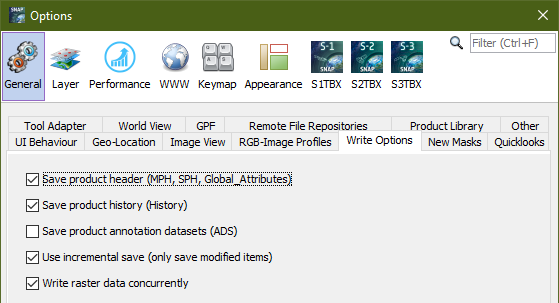
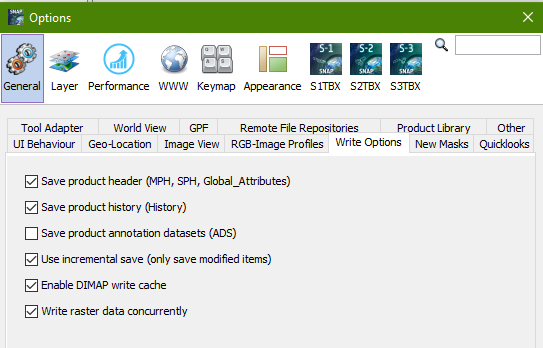
[SNAP-1324] Improve write performance of DIMAP
* final update - corrected offset calculations

* implemented GUI elements for DIMAP cache and updated docs

* update image in help

* Delete snap.conf.bak

* Delete ground_control_points.csv

* Delete pins.csv

* Delete X.dim

* Delete ground_control_points.csv

* Delete pins.csv

* Delete Y.dim

* Delete BandMath-template.vm

* Delete descriptor.xml

* Delete descriptor.xml

* Delete OTB-KMeans-template.vm

* Delete descriptor.xml

* Delete OTB-LocalStatisticsExtraction-template.vm

* Delete descriptor.xml

* Delete OTB-OpticalCalibration-template.vm

* Delete descriptor.xml

* Delete OTB-OrthoRectification-template.vm

* Delete descriptor.xml

* Delete OTB-PanSharpening-template.vm

diff --git a/snap-help/src/main/resources/org/esa/snap/snap/help/docs/desktop/OptionsDialog.html b/snap-help/src/main/resources/org/esa/snap/snap/help/docs/desktop/OptionsDialog.html
@@ -198,6 +198,11 @@ at once.
         applied to a product, such as band modified or created with band maths
         tool or the removal of bands.
     </li>
+    <li><b>Enable DIMAP write cache</b><br>
+        If this option is selected (recommended), all data written to DIMAP file format will be cached before
+        accessing the storage medium. This allows for a disk access schema suited for the dataformat and thus
+        in most cases a higher data throughput.
+    </li>
 </ul>
 <p>The last element generally concerns the writing process and thus also all writeable formats.</p>
 <ul>

diff --git a/snap-rcp/src/main/java/org/esa/snap/rcp/preferences/general/WriteOptionsController.java b/snap-rcp/src/main/java/org/esa/snap/rcp/preferences/general/WriteOptionsController.java
@@ -42,7 +42,7 @@ import java.beans.PropertyChangeListener;
         position = 5)
 @org.openide.util.NbBundle.Messages({
         "Options_DisplayName_WriteOptions=Write Options",
-        "Options_Keywords_WriteOptions=write, writing, save, header, MPH, SPH, history, annotation, incremental"
+        "Options_Keywords_WriteOptions=write, writing, save, header, MPH, SPH, history, annotation, incremental, caching"
 })
 public final class WriteOptionsController extends DefaultConfigController {
 
@@ -64,6 +64,11 @@ public final class WriteOptionsController extends DefaultConfigController {
     public static final String PREFERENCE_KEY_SAVE_INCREMENTAL = "save.incremental";
 
     /**
+     * Preferences key to switch dimap product writer caching
+     */
+    public static final String PREFERENCE_KEY_DIMAP_WRITE_CACHE = "snap.dataio.writer.dimap.useCache";
+
+    /**
      * default value for preference save product headers (MPH, SPH) or not
      */
     public static final boolean DEFAULT_VALUE_SAVE_PRODUCT_HEADERS = true;
@@ -79,6 +84,11 @@ public final class WriteOptionsController extends DefaultConfigController {
      * default value for preference incremental mode at save
      */
     public static final boolean DEFAULT_VALUE_SAVE_INCREMENTAL = true;
+
+    /**
+     * default value for preference for dimap caching
+     */
+    public static final boolean DEFAULT_VALUE_DIMAP_WRITE_CACHE = true;
 
     protected PropertySet createPropertySet() {
         return createPropertySet(new WriteOptionsBean());
@@ -126,6 +136,9 @@ public final class WriteOptionsController extends DefaultConfigController {
 
         @Preference(label = "Use incremental save (only save modified items)", key = PREFERENCE_KEY_SAVE_INCREMENTAL)
         boolean saveIncremental = DEFAULT_VALUE_SAVE_INCREMENTAL;
+
+        @Preference(config = "snap", label = "Enable DIMAP write cache", key = PREFERENCE_KEY_DIMAP_WRITE_CACHE)
+        boolean useDimapCache = DEFAULT_VALUE_DIMAP_WRITE_CACHE;
 
         @Preference(config = "snap", label = "Write raster data concurrently", key = ProductIO.SYSTEM_PROPERTY_CONCURRENT)
         boolean writeConcurrent = ProductIO.DEFAULT_WRITE_RASTER_CONCURRENT;
